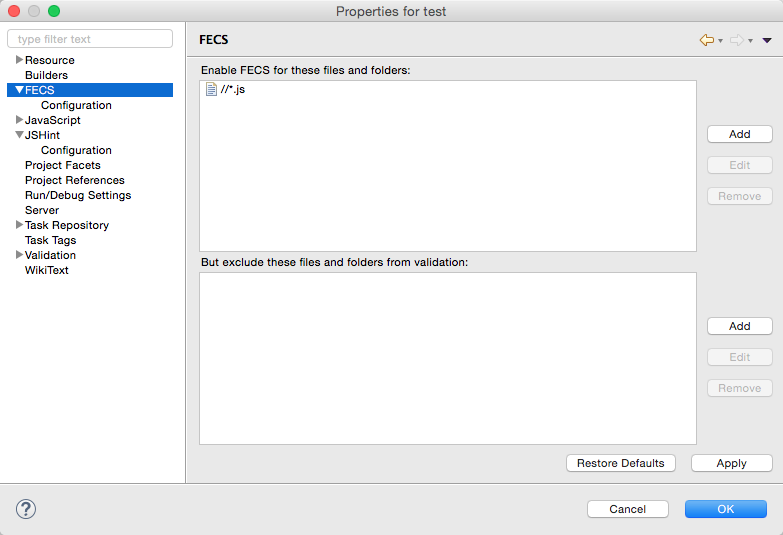
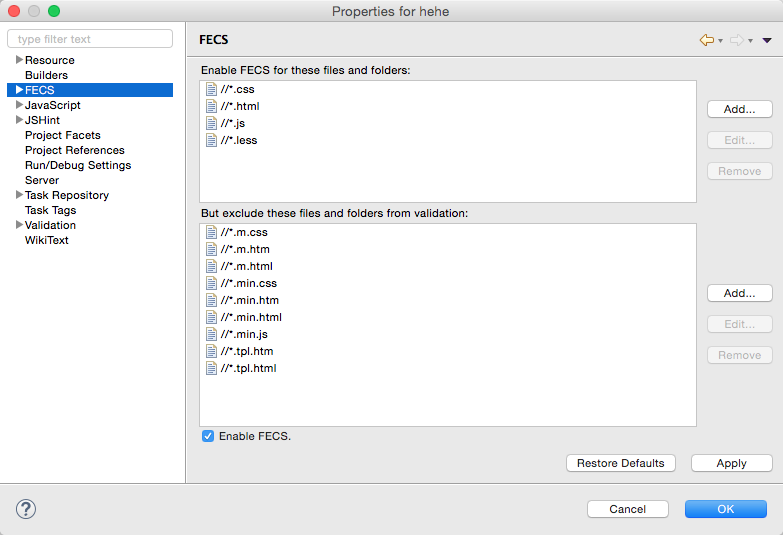
更改插件启用说明

diff --git a/README.md b/README.md
@@ -25,7 +25,7 @@
 
 + 在线安装（更新）
 
-在 Work with 一栏填写 update 网址：http://ecomfe.github.io/fecs-eclipse/update
+在 Work with 一栏填写 update 网址：http://ecomfe.github.io/fecs-eclipse/update/
 
 ![update](images/update.png)
 
@@ -35,11 +35,11 @@
 
 ### 配置
 
-在偏好设置（Preferences）中设置 Node.js 和 FECS 的 bin 路径：
+在偏好设置（Preferences）中设置 Node.js 和 FECS 的 bin 目录：
 
 ![未配置路径](images/noconfig.png)
 
-**配置 Node.js 的 bin 路径。**
+**配置 Node.js 的 bin 目录。**
 
 + Use default directory of node interpreter
 	
@@ -49,7 +49,7 @@
 
 	把选取的目录赋值给 ```[nodeDir]``` 。
 
-**配置 FECS 的 bin 路径。**
+**配置 FECS 的 bin 目录。**
 
 + Provide the directory of fecs interpreter
 
@@ -61,7 +61,11 @@
 
 ### 启用
 
-右键项目进入 property 可设置插件检查哪些文件
+右键项目进入 property ，勾选 Enable FECS 并应用，即可启用插件。
+
+可设置插件检查及忽略的文件。
+
+插件的默认配置中，检查项目中的 css, html, js, less 文件，过滤项目中的各种压缩文件和模板文件。具体默认配置如图。（**注意：该插件不检查默认忽略的文件类型，及时将其从 exlcude 移除并添加至 include 中也不会检查。**）
 
 ![property](images/property.png)
 
